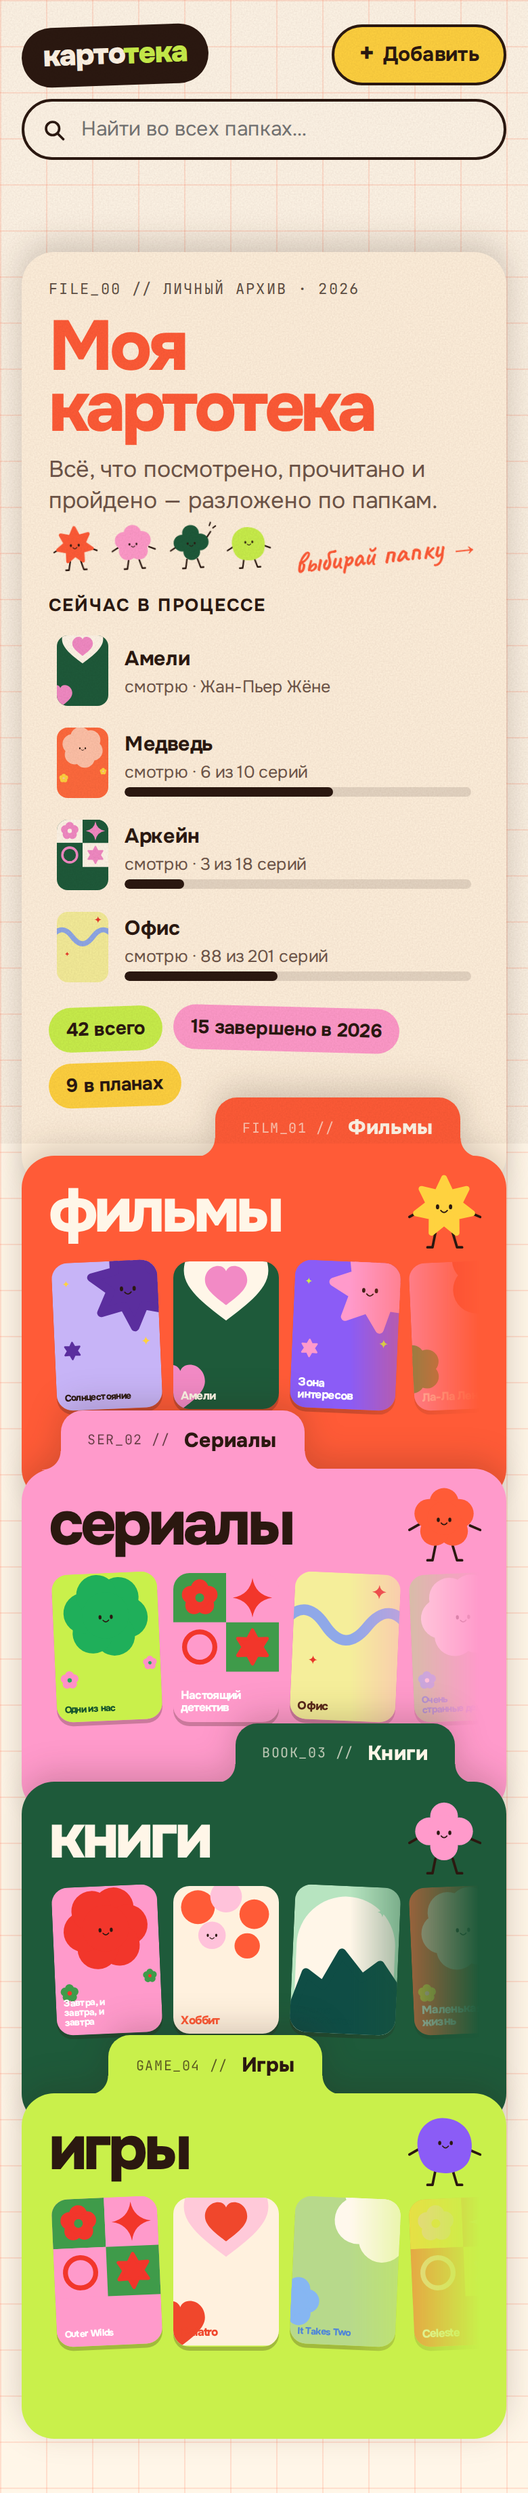
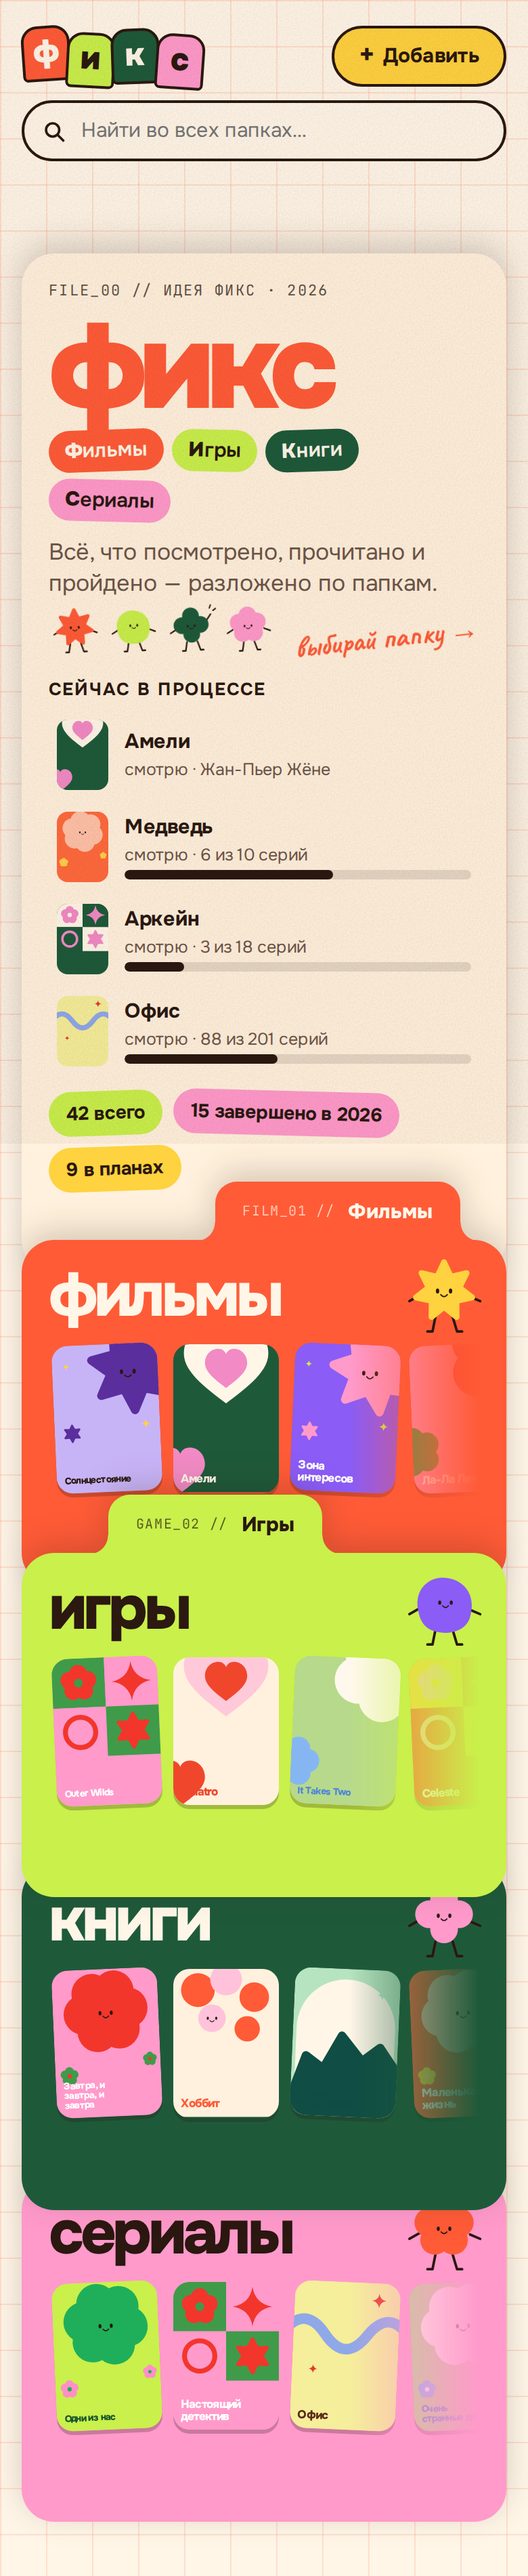
Переименование в «Фикс»: логотип из четырёх язычков и расшифровка аббревиатуры
Порядок папок приведён к Ф-И-К-С, сборка в один файл теперь fiks.html.

Claude-Session: https://claude.ai/code/session_01PDBpM1BjsubR5k6YmRK1Ea

diff --git a/fiks.html b/fiks.html
@@ -3,8 +3,8 @@
 <head>
   <meta charset="utf-8">
   <meta name="viewport" content="width=device-width, initial-scale=1">
-  <title>Картотека</title>
-  <meta name="description" content="Личная картотека фильмов, сериалов, книг и игр">
+  <title>Фикс</title>
+  <meta name="description" content="Фикс — фильмы, игры, книги, сериалы. Личная коллекция того, что посмотрено, прочитано и пройдено">
   <link rel="preconnect" href="https://fonts.googleapis.com">
   <link rel="preconnect" href="https://fonts.gstatic.com" crossorigin>
   <link href="https://fonts.googleapis.com/css2?family=Onest:wght@400;500;600;700;800;900&family=Caveat:wght@500;700&family=JetBrains+Mono:wght@400;600&display=swap" rel="stylesheet">
@@ -119,16 +119,26 @@ button, input, select, textarea { font: inherit; color: inherit; }
   display: flex; align-items: center; gap: 16px;
   padding: 18px var(--gutter);
 }
-.logo {
-  font-weight: 900; font-size: 22px; letter-spacing: -.05em;
-  background: var(--ink); color: var(--cream);
-  padding: 7px 16px 9px; border-radius: 999px;
-  text-decoration: none;
-  transform: rotate(-2deg);
-  transition: transform .2s;
+/* логотип: четыре буквы — четыре язычка папок */
+.logo { display: flex; align-items: center; gap: 12px; text-decoration: none; color: var(--ink); }
+.logo-mark { display: flex; align-items: flex-end; height: 46px; }
+.logo-mark i {
+  font-style: normal; font-weight: 900; font-size: 24px; line-height: 1;
+  background: var(--c); color: var(--fi);
+  width: 36px; padding: 5px 0 8px; text-align: center;
+  border-radius: 12px 12px 4px 4px;
+  margin-right: -3px;
+  border: 2px solid var(--ink);
+  transition: transform .25s cubic-bezier(.3, 1.6, .5, 1);
 }
-.logo:hover { transform: rotate(2deg) scale(1.05); }
-.logo b { color: var(--lime); font-weight: 900; }
+.logo-mark i:nth-child(1) { transform: translateY(-4px) rotate(-4deg); }
+.logo-mark i:nth-child(2) { transform: translateY(1px) rotate(3deg); }
+.logo-mark i:nth-child(3) { transform: translateY(-2px) rotate(-2deg); }
+.logo-mark i:nth-child(4) { transform: translateY(2px) rotate(4deg); }
+.logo:hover .logo-mark i { transform: translateY(-6px) rotate(0); }
+.logo:hover .logo-mark i:nth-child(even) { transform: translateY(-2px) rotate(0); }
+.logo-sub { font: 600 12px/1.3 var(--mono); letter-spacing: .02em; white-space: nowrap; color: var(--page-fi, var(--ink)); opacity: .85; }
+.logo-sub b { font-weight: 700; }
 
 .search { position: relative; flex: 1; max-width: 440px; margin-left: auto; }
 .search input {
@@ -272,11 +282,16 @@ button, input, select, textarea { font: inherit; color: inherit; }
 .title-sheet h1 {
   margin: 2px 0 0;
   color: var(--tomato);
-  font-size: clamp(52px, 5.6vw, 92px);
-  font-weight: 800;
-  letter-spacing: -.06em;
-  line-height: .86;
+  font-size: clamp(90px, 10vw, 150px);
+  font-weight: 900;
+  letter-spacing: -.07em;
+  line-height: .8;
 }
+.decode { margin: -2px 0 0; display: flex; flex-wrap: wrap; gap: 6px; }
+.decode span { background: var(--c); color: var(--fi); border-radius: 999px; padding: 5px 12px 6px; font-size: 15px; font-weight: 600; }
+.decode span:nth-child(odd) { transform: rotate(-2deg); }
+.decode span:nth-child(even) { transform: rotate(1.5deg); }
+.decode b { font-weight: 900; }
 .lead { margin: 0; font-size: 17px; line-height: 1.35; max-width: 30ch; color: var(--ink-2); }
 .mascot-row { display: flex; align-items: flex-end; gap: 4px; margin: -4px 0 -6px; }
 .mascot-link { width: 72px; display: block; animation: bob 2.6s ease-in-out infinite; animation-delay: var(--d); }
@@ -645,6 +660,7 @@ button, input, select, textarea { font: inherit; color: inherit; }
 }
 
 @media (max-width: 480px) {
+  .logo-sub { display: none; }
   .grid { grid-template-columns: 1fr 1fr; }
   .card h3 { font-size: 15px; }
   .coll-mascot { width: 96px; }
@@ -661,10 +677,13 @@ button, input, select, textarea { font: inherit; color: inherit; }
 </head>
 <body>
   <header class="topbar">
-    <a class="logo" href="#/" aria-label="Картотека — на главную">карто<b>тека</b></a>
+    <a class="logo" href="#/" aria-label="Фикс — фильмы, игры, книги, сериалы. На главную">
+      <span class="logo-mark" aria-hidden="true"><i style="--c:#FF5B37;--fi:#FFF6E8">ф</i><i style="--c:#C9F04B;--fi:#2B1810">и</i><i style="--c:#1E5A3A;--fi:#FFF6E8">к</i><i style="--c:#FF9ACB;--fi:#2B1810">с</i></span>
+      <span class="logo-sub" aria-hidden="true"><b>ф</b>ильмы · <b>и</b>гры · <b>к</b>ниги · <b>с</b>ериалы</span>
+    </a>
     <div class="search" role="search">
       <svg class="search-icon" viewBox="0 0 24 24" aria-hidden="true"><circle cx="10.5" cy="10.5" r="6.5"/><path d="M15.5 15.5 21 21"/></svg>
-      <input id="global-search" type="search" placeholder="Найти во всех папках…" autocomplete="off" aria-label="Поиск по картотеке">
+      <input id="global-search" type="search" placeholder="Найти во всех папках…" autocomplete="off" aria-label="Поиск по всем папкам">
       <div class="search-results" id="search-results" hidden></div>
     </div>
     <button class="btn btn--add" data-action="add" type="button"><span aria-hidden="true">+</span> Добавить</button>
@@ -968,7 +987,7 @@ window.Covers = (() => {
     book:   { label: 'Книги',   forms: ['книга', 'книги', 'книг'],        code: 'BOOK', c: '#1E5A3A', fi: '#FFF6E8', m: '#FF9ACB', verb: 'Читаю',  unit: 'стр.',  grid: 'rgba(255,246,232,.1)' },
     game:   { label: 'Игры',    forms: ['игра', 'игры', 'игр'],           code: 'GAME', c: '#C9F04B', fi: '#2B1810', m: '#8B5CF6', verb: 'Играю',  unit: '%',     grid: 'rgba(43,24,16,.08)' },
   };
-  const ORDER = ['film', 'series', 'book', 'game'];
+  const ORDER = ['film', 'game', 'book', 'series']; // Ф-И-К-С
   const STATUS = {
     want:     { label: 'Хочу',      c: '#FFD23F' },
     progress: { label: null,        c: '#86B6F2' },
@@ -1043,10 +1062,12 @@ window.Covers = (() => {
     if (type) {
       document.body.style.setProperty('--page', TYPES[type].c);
       document.body.style.setProperty('--grid', TYPES[type].grid);
+      document.body.style.setProperty('--page-fi', TYPES[type].fi);
       renderCollection(type);
     } else {
       document.body.style.removeProperty('--page');
       document.body.style.removeProperty('--grid');
+      document.body.style.removeProperty('--page-fi');
       renderHome();
     }
   }
@@ -1060,8 +1081,9 @@ window.Covers = (() => {
       <article class="folder folder--title" style="--c:#FFF1DD;--fi:#2B1810;z-index:10">
         <div class="folder-tab" aria-hidden="true"><small>FILE_00 //</small>архив</div>
         <div class="folder-body title-sheet">
-          <div class="mono">FILE_00 // личный архив · ${YEAR}</div>
-          <h1>Моя<br>картотека</h1>
+          <div class="mono">FILE_00 // идея фикс · ${YEAR}</div>
+          <h1>фикс</h1>
+          <p class="decode">${ORDER.map((t) => `<span style="${typeVars(t)}"><b>${TYPES[t].label[0]}</b>${TYPES[t].label.slice(1).toLowerCase()}</span>`).join('')}</p>
           <p class="lead">Всё, что посмотрено, прочитано и пройдено — разложено по папкам.</p>
           <div class="mascot-row">
             ${ORDER.map((t, i) => `<a href="#/${t}" class="mascot-link" style="--d:${i * 0.15}s" aria-label="${TYPES[t].label}">${mascot(t, TYPES[t].c, { wave: i === 2 })}</a>`).join('')}
@@ -1277,7 +1299,7 @@ window.Covers = (() => {
             <textarea class="notes" data-notes rows="4" placeholder="Что запомнилось?">${esc(it.notes)}</textarea>
           </div>
 
-          <button type="button" class="link-danger" data-delete>Удалить из картотеки</button>
+          <button type="button" class="link-danger" data-delete>Удалить из фикса</button>
         </div>
       </div>`, it.type);
   }
@@ -1390,7 +1412,7 @@ window.Covers = (() => {
     const untag = t.closest('[data-untag]');
     if (untag) { it.tags.splice(Number(untag.dataset.untag), 1); save(); refreshDetail(it.id); return; }
     if (t.closest('[data-delete]')) {
-      if (!confirm(`Удалить «${it.title}» из картотеки?`)) return;
+      if (!confirm(`Удалить «${it.title}» из фикса?`)) return;
       items = items.filter((x) => x.id !== it.id);
       save(); closeModal(); render(); toast('Карточка удалена');
     }

diff --git a/js/app.js b/js/app.js
@@ -7,7 +7,7 @@
     book:   { label: 'Книги',   forms: ['книга', 'книги', 'книг'],        code: 'BOOK', c: '#1E5A3A', fi: '#FFF6E8', m: '#FF9ACB', verb: 'Читаю',  unit: 'стр.',  grid: 'rgba(255,246,232,.1)' },
     game:   { label: 'Игры',    forms: ['игра', 'игры', 'игр'],           code: 'GAME', c: '#C9F04B', fi: '#2B1810', m: '#8B5CF6', verb: 'Играю',  unit: '%',     grid: 'rgba(43,24,16,.08)' },
   };
-  const ORDER = ['film', 'series', 'book', 'game'];
+  const ORDER = ['film', 'game', 'book', 'series']; // Ф-И-К-С
   const STATUS = {
     want:     { label: 'Хочу',      c: '#FFD23F' },
     progress: { label: null,        c: '#86B6F2' },
@@ -82,10 +82,12 @@
     if (type) {
       document.body.style.setProperty('--page', TYPES[type].c);
       document.body.style.setProperty('--grid', TYPES[type].grid);
+      document.body.style.setProperty('--page-fi', TYPES[type].fi);
       renderCollection(type);
     } else {
       document.body.style.removeProperty('--page');
       document.body.style.removeProperty('--grid');
+      document.body.style.removeProperty('--page-fi');
       renderHome();
     }
   }
@@ -99,8 +101,9 @@
       <article class="folder folder--title" style="--c:#FFF1DD;--fi:#2B1810;z-index:10">
         <div class="folder-tab" aria-hidden="true"><small>FILE_00 //</small>архив</div>
         <div class="folder-body title-sheet">
-          <div class="mono">FILE_00 // личный архив · ${YEAR}</div>
-          <h1>Моя<br>картотека</h1>
+          <div class="mono">FILE_00 // идея фикс · ${YEAR}</div>
+          <h1>фикс</h1>
+          <p class="decode">${ORDER.map((t) => `<span style="${typeVars(t)}"><b>${TYPES[t].label[0]}</b>${TYPES[t].label.slice(1).toLowerCase()}</span>`).join('')}</p>
           <p class="lead">Всё, что посмотрено, прочитано и пройдено — разложено по папкам.</p>
           <div class="mascot-row">
             ${ORDER.map((t, i) => `<a href="#/${t}" class="mascot-link" style="--d:${i * 0.15}s" aria-label="${TYPES[t].label}">${mascot(t, TYPES[t].c, { wave: i === 2 })}</a>`).join('')}
@@ -316,7 +319,7 @@
             <textarea class="notes" data-notes rows="4" placeholder="Что запомнилось?">${esc(it.notes)}</textarea>
           </div>
 
-          <button type="button" class="link-danger" data-delete>Удалить из картотеки</button>
+          <button type="button" class="link-danger" data-delete>Удалить из фикса</button>
         </div>
       </div>`, it.type);
   }
@@ -429,7 +432,7 @@
     const untag = t.closest('[data-untag]');
     if (untag) { it.tags.splice(Number(untag.dataset.untag), 1); save(); refreshDetail(it.id); return; }
     if (t.closest('[data-delete]')) {
-      if (!confirm(`Удалить «${it.title}» из картотеки?`)) return;
+      if (!confirm(`Удалить «${it.title}» из фикса?`)) return;
       items = items.filter((x) => x.id !== it.id);
       save(); closeModal(); render(); toast('Карточка удалена');
     }

diff --git a/css/styles.css b/css/styles.css
@@ -108,16 +108,26 @@ button, input, select, textarea { font: inherit; color: inherit; }
   display: flex; align-items: center; gap: 16px;
   padding: 18px var(--gutter);
 }
-.logo {
-  font-weight: 900; font-size: 22px; letter-spacing: -.05em;
-  background: var(--ink); color: var(--cream);
-  padding: 7px 16px 9px; border-radius: 999px;
-  text-decoration: none;
-  transform: rotate(-2deg);
-  transition: transform .2s;
+/* логотип: четыре буквы — четыре язычка папок */
+.logo { display: flex; align-items: center; gap: 12px; text-decoration: none; color: var(--ink); }
+.logo-mark { display: flex; align-items: flex-end; height: 46px; }
+.logo-mark i {
+  font-style: normal; font-weight: 900; font-size: 24px; line-height: 1;
+  background: var(--c); color: var(--fi);
+  width: 36px; padding: 5px 0 8px; text-align: center;
+  border-radius: 12px 12px 4px 4px;
+  margin-right: -3px;
+  border: 2px solid var(--ink);
+  transition: transform .25s cubic-bezier(.3, 1.6, .5, 1);
 }
-.logo:hover { transform: rotate(2deg) scale(1.05); }
-.logo b { color: var(--lime); font-weight: 900; }
+.logo-mark i:nth-child(1) { transform: translateY(-4px) rotate(-4deg); }
+.logo-mark i:nth-child(2) { transform: translateY(1px) rotate(3deg); }
+.logo-mark i:nth-child(3) { transform: translateY(-2px) rotate(-2deg); }
+.logo-mark i:nth-child(4) { transform: translateY(2px) rotate(4deg); }
+.logo:hover .logo-mark i { transform: translateY(-6px) rotate(0); }
+.logo:hover .logo-mark i:nth-child(even) { transform: translateY(-2px) rotate(0); }
+.logo-sub { font: 600 12px/1.3 var(--mono); letter-spacing: .02em; white-space: nowrap; color: var(--page-fi, var(--ink)); opacity: .85; }
+.logo-sub b { font-weight: 700; }
 
 .search { position: relative; flex: 1; max-width: 440px; margin-left: auto; }
 .search input {
@@ -261,11 +271,16 @@ button, input, select, textarea { font: inherit; color: inherit; }
 .title-sheet h1 {
   margin: 2px 0 0;
   color: var(--tomato);
-  font-size: clamp(52px, 5.6vw, 92px);
-  font-weight: 800;
-  letter-spacing: -.06em;
-  line-height: .86;
+  font-size: clamp(90px, 10vw, 150px);
+  font-weight: 900;
+  letter-spacing: -.07em;
+  line-height: .8;
 }
+.decode { margin: -2px 0 0; display: flex; flex-wrap: wrap; gap: 6px; }
+.decode span { background: var(--c); color: var(--fi); border-radius: 999px; padding: 5px 12px 6px; font-size: 15px; font-weight: 600; }
+.decode span:nth-child(odd) { transform: rotate(-2deg); }
+.decode span:nth-child(even) { transform: rotate(1.5deg); }
+.decode b { font-weight: 900; }
 .lead { margin: 0; font-size: 17px; line-height: 1.35; max-width: 30ch; color: var(--ink-2); }
 .mascot-row { display: flex; align-items: flex-end; gap: 4px; margin: -4px 0 -6px; }
 .mascot-link { width: 72px; display: block; animation: bob 2.6s ease-in-out infinite; animation-delay: var(--d); }
@@ -634,6 +649,7 @@ button, input, select, textarea { font: inherit; color: inherit; }
 }
 
 @media (max-width: 480px) {
+  .logo-sub { display: none; }
   .grid { grid-template-columns: 1fr 1fr; }
   .card h3 { font-size: 15px; }
   .coll-mascot { width: 96px; }

diff --git a/index.html b/index.html
@@ -3,8 +3,8 @@
 <head>
   <meta charset="utf-8">
   <meta name="viewport" content="width=device-width, initial-scale=1">
-  <title>Картотека</title>
-  <meta name="description" content="Личная картотека фильмов, сериалов, книг и игр">
+  <title>Фикс</title>
+  <meta name="description" content="Фикс — фильмы, игры, книги, сериалы. Личная коллекция того, что посмотрено, прочитано и пройдено">
   <link rel="preconnect" href="https://fonts.googleapis.com">
   <link rel="preconnect" href="https://fonts.gstatic.com" crossorigin>
   <link href="https://fonts.googleapis.com/css2?family=Onest:wght@400;500;600;700;800;900&family=Caveat:wght@500;700&family=JetBrains+Mono:wght@400;600&display=swap" rel="stylesheet">
@@ -12,10 +12,13 @@
 </head>
 <body>
   <header class="topbar">
-    <a class="logo" href="#/" aria-label="Картотека — на главную">карто<b>тека</b></a>
+    <a class="logo" href="#/" aria-label="Фикс — фильмы, игры, книги, сериалы. На главную">
+      <span class="logo-mark" aria-hidden="true"><i style="--c:#FF5B37;--fi:#FFF6E8">ф</i><i style="--c:#C9F04B;--fi:#2B1810">и</i><i style="--c:#1E5A3A;--fi:#FFF6E8">к</i><i style="--c:#FF9ACB;--fi:#2B1810">с</i></span>
+      <span class="logo-sub" aria-hidden="true"><b>ф</b>ильмы · <b>и</b>гры · <b>к</b>ниги · <b>с</b>ериалы</span>
+    </a>
     <div class="search" role="search">
       <svg class="search-icon" viewBox="0 0 24 24" aria-hidden="true"><circle cx="10.5" cy="10.5" r="6.5"/><path d="M15.5 15.5 21 21"/></svg>
-      <input id="global-search" type="search" placeholder="Найти во всех папках…" autocomplete="off" aria-label="Поиск по картотеке">
+      <input id="global-search" type="search" placeholder="Найти во всех папках…" autocomplete="off" aria-label="Поиск по всем папкам">
       <div class="search-results" id="search-results" hidden></div>
     </div>
     <button class="btn btn--add" data-action="add" type="button"><span aria-hidden="true">+</span> Добавить</button>

diff --git a/README.md b/README.md
@@ -1,4 +1,6 @@
-# Картотека
+# Фикс
+
+**Ф**ильмы · **И**гры · **К**ниги · **С**ериалы.
 
 Прототип дизайна веб-приложения для личных коллекций фильмов, сериалов, книг и игр.
 
@@ -6,7 +8,7 @@
 
 ## Как открыть
 
-Откройте `index.html` в браузере. Сборка не нужна: чистые HTML, CSS и JS.
+Откройте `index.html` в браузере. `fiks.html` — та же страница, собранная в один файл, чтобы её было удобно переслать. Сборка не нужна: чистые HTML, CSS и JS.
 
 ## Что есть
 
